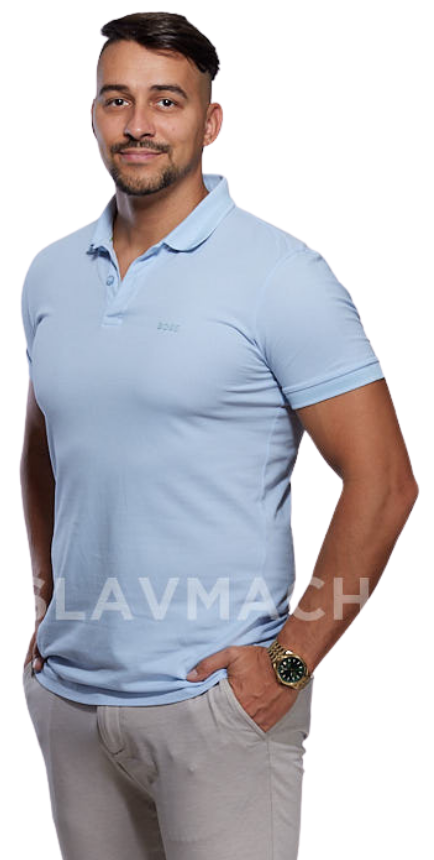
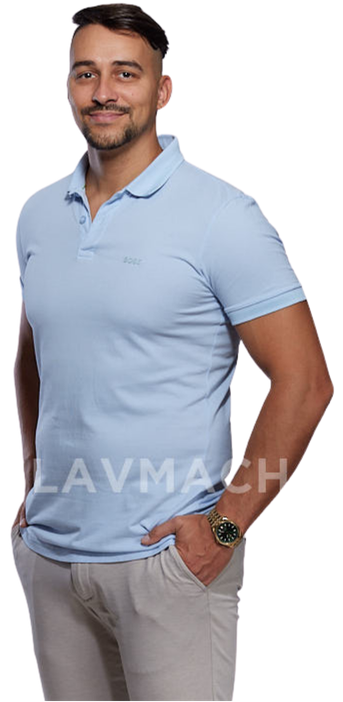
Nové fotky (hero, O mně) a mobilní trasa s tečkami na lince
- Homepage hero, O mně hero a O mně Důvěra: nové testovací fotky usazené
  podle docs/fotky-umisteni.md; hero na O mně stejně velké jako ostatní
  hero, rozpuštění stejně dlouhé jako na Přístupu.
- Mobil: Souvislosti schodovitě, Rozcestník a Proces jako had s tečkami
  přímo na lince; menší nadpis Souvislostí pod 375 px.

diff --git a/docs/fotky-umisteni.md b/docs/fotky-umisteni.md
@@ -37,10 +37,10 @@ Hodnoty jsou v CSS pixelech na webu, měřené od levého horního rohu rámu.
 | | | 1440 | 500 × 780 | 120 | 12 | 224 | 726 | 〃 |
 | Homepage — „Za každým doporučením…" | `patrik-duvera.webp` | 1300 | 500 × 750 | 104 | 11 | 293 | 673 | 84 % → 99 % výšky rámu |
 | | | 1440 | 580 × 870 | 121 | 13 | 340 | 781 | 〃 |
-| O mně — hero | `patrik-omne-hero-top.png` | 1300 | 500 × 850 | 132 | 22 | 191 | 775 | od prstů do spodku rámu (~75 px) |
-| | | 1440 | 510 × 901 | 137 | 23 | 194 | 805 | od prstů do spodku rámu (~96 px) |
-| O mně — Důvěra | `patrik-omne-hero.webp` | 1300 | 503 × 762 | 104 | 16 | 247 | 606 | 78 % → 99 % + šikmo přes nohu vpravo dole |
-| | | 1440 | 586 × 887 | 121 | 19 | 288 | 705 | 〃 |
+| O mně — hero | `patrik-omne-hero-top.png` | 1300 | 500 × 768 | 117 | 22 | 191 | 716 | od prstů do spodku rámu (~52 px, jako Přístup); rám bez ořezu (prsty volné ruky smí vyčnívat vlevo, na tabletu ~25 px) |
+| | | 1440 | 510 × 828 | 123 | 23 | 194 | 752 | od prstů do spodku rámu (~76 px, jako Přístup) |
+| O mně — Důvěra | `patrik-omne-hero.webp` | 1300 | 503 × 762 | 104 | 16 | 247 | 687 | od prstů do spodku výřezu (93,6 % → 99,5 % výšky fotky); výřez od 1. 10. 2026 končí u stehen, spodních ~29 px rámu zůstává prázdných |
+| | | 1440 | 586 × 887 | 121 | 19 | 288 | 800 | 〃 (~34 px prázdných) |
 | Přístup — hero | `patrik-pristup.png` | 1300 | 470 × 798 | 117 | 18 | 191 | 744 | od prstů do spodku rámu (~54 px) |
 | | | 1440 | 490 × 862 | 123 | 19 | 198 | 783 | od prstů do spodku rámu (~79 px) |
 | Přístup — Péče (kulatý portrét) | `patrik-pristup-pece.png` | 1300 | 220 × 220 | 82 | 30 | 108 | — | žádné, kruh s pozadím `--about-photo-1` |
@@ -51,7 +51,8 @@ s pravou stranou obsahu).
 
 ## Pravidla, která platí pro všechny fotky
 
-- Hero fotky mají stejně velkou postavu (hlava 116–137 px), druhé fotky
+- Hero fotky mají stejně velkou postavu (hlava 116–123 px; od 1. 10. 2026
+  i O mně, dřív 132/137 px — Patrik: „větší než v ostatních hero“), druhé fotky
   (homepage „Za každým…", O mně Důvěra) stejnou menší (104/121 px).
 - Ruce vždy celé vidět; rozpouštění až pod nimi, nikdy tvrdá hrana ve vzduchu.
 - Hero fotka začíná 60 px pod hlavičkou; od nadpisu první kapitoly pod ní
